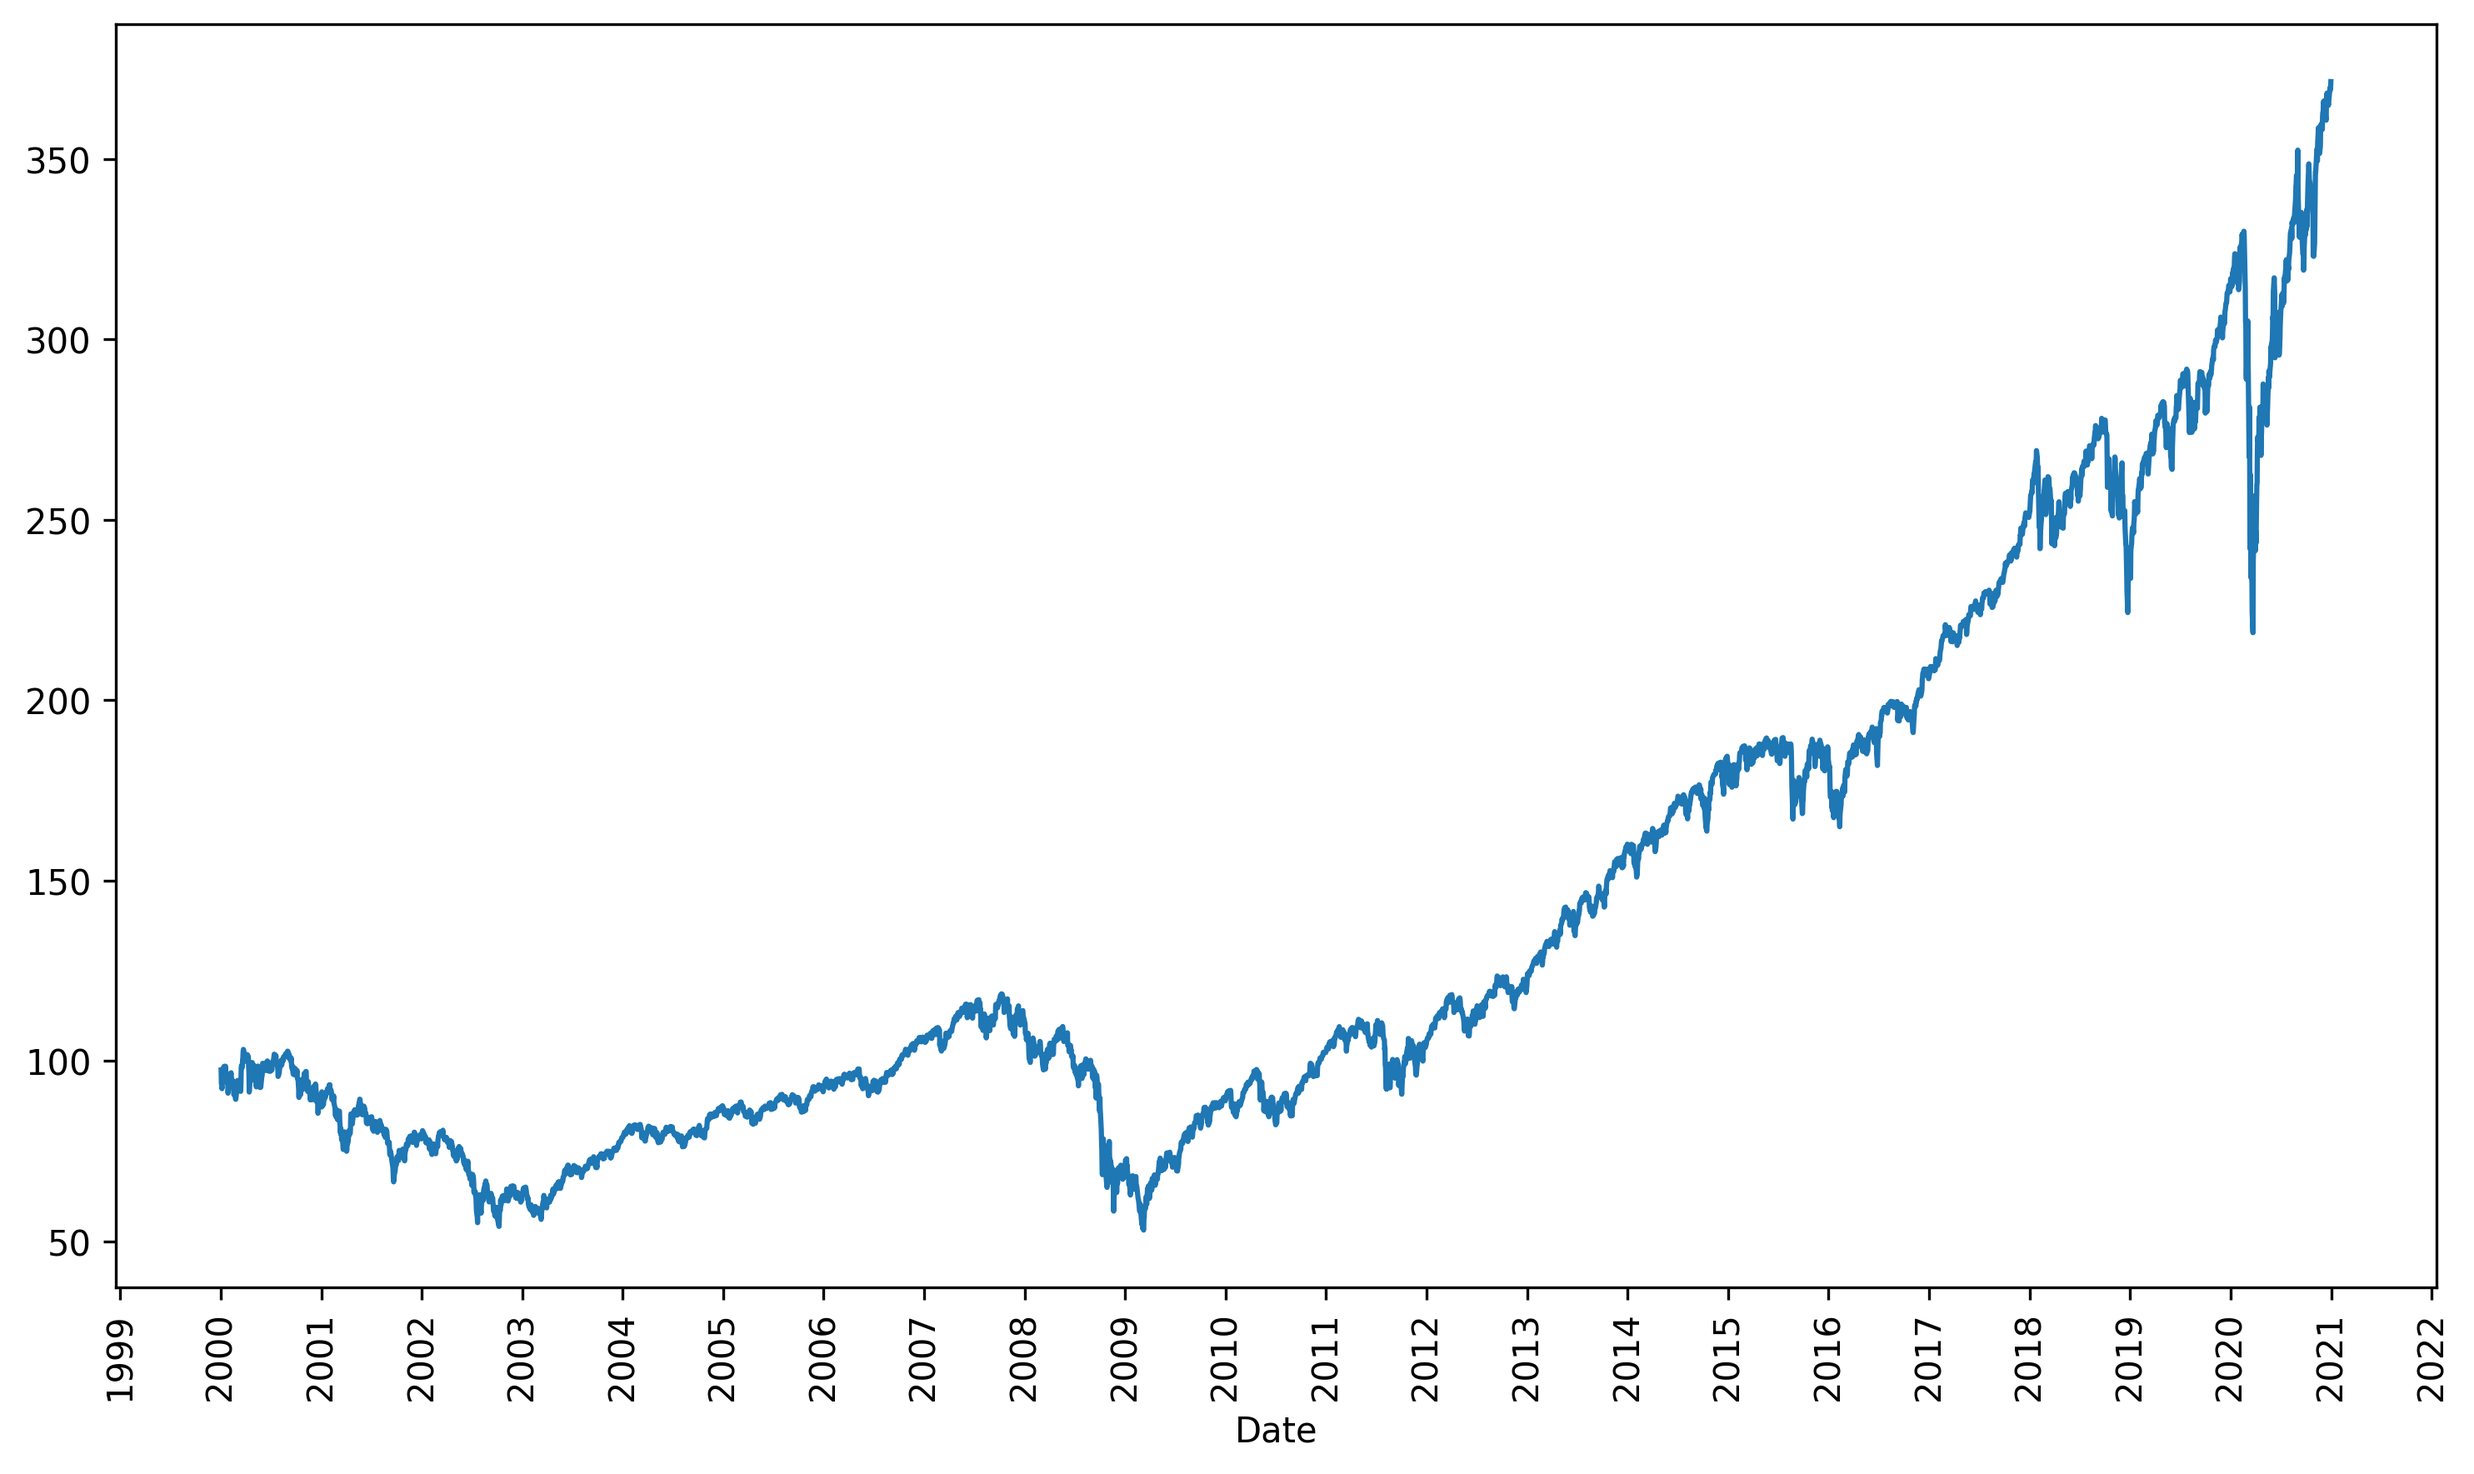
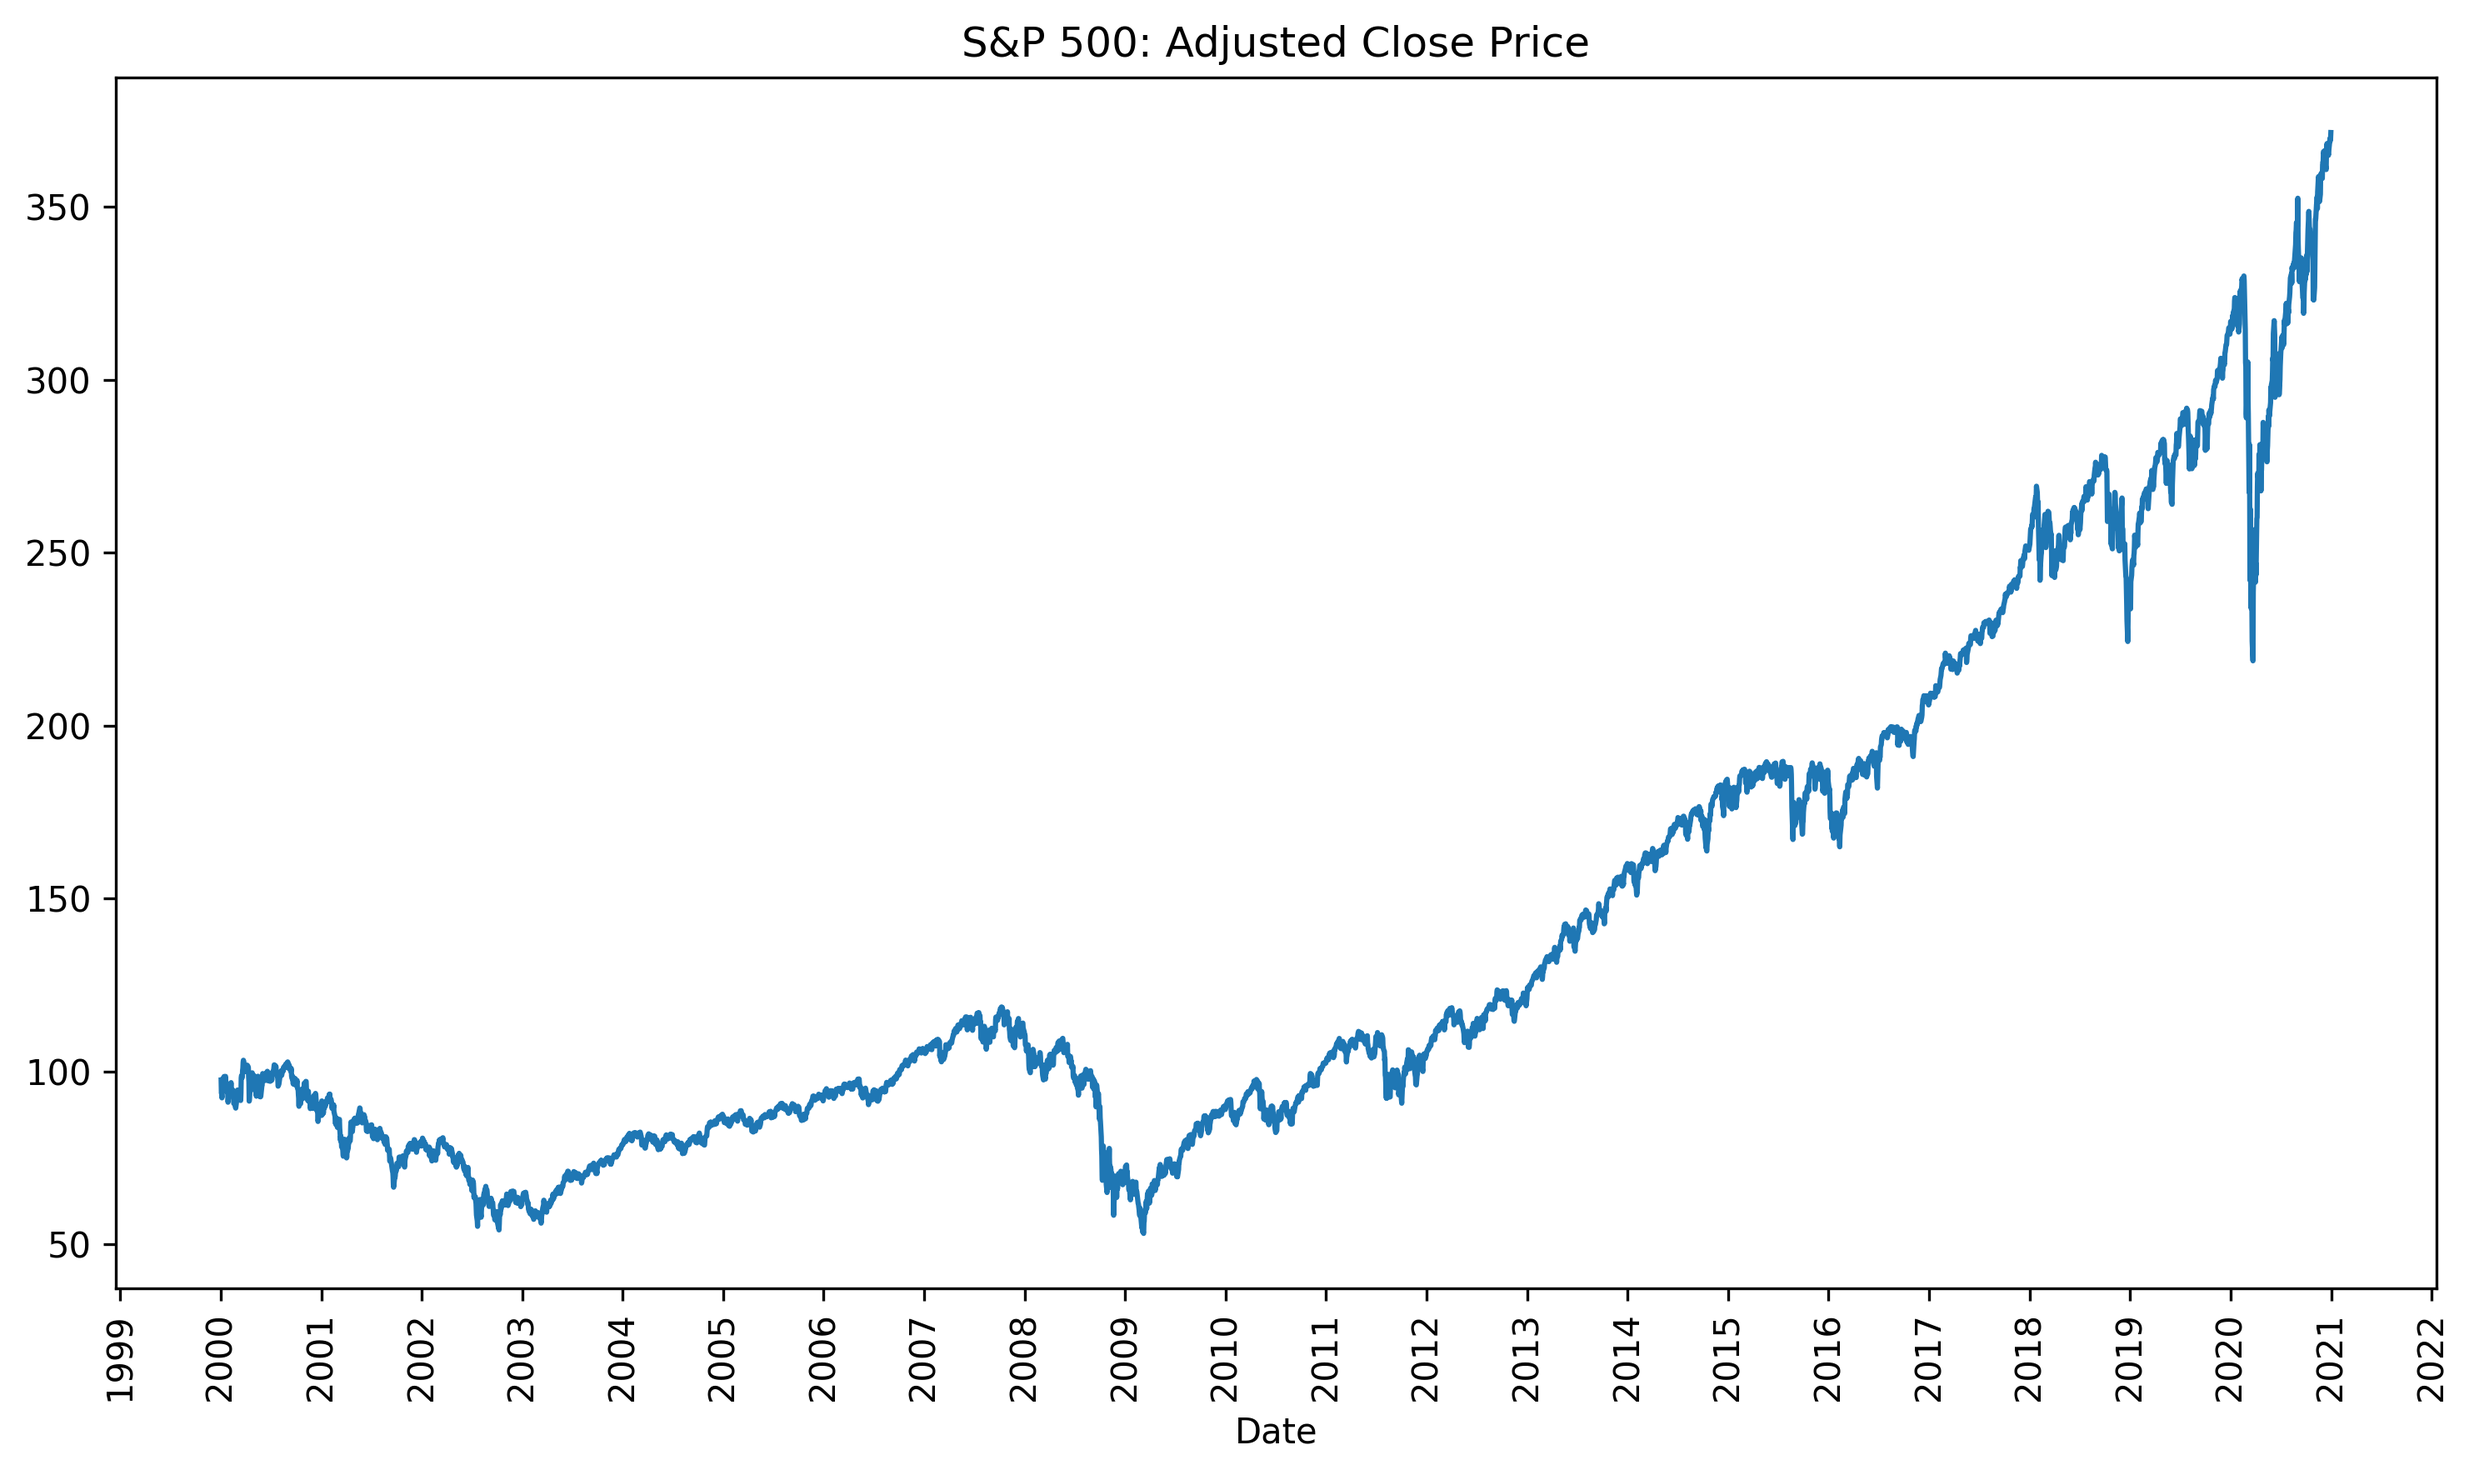
Added titles and tight fit to all plots and dynamically created y limits for the 2020 SPY crash plot

diff --git a/section-05-pandas-finance/q-00-spy.py b/section-05-pandas-finance/q-00-spy.py
@@ -17,6 +17,7 @@ df.info()
 
 # **Task: Plot the Adjusted Closing price of the SP500, with the price on the y axis and the year on the x axis. Use Locator() and Formatter() techniques to configure the plot x axis so that you can see a tick for every year in the dataset (only showing the year number, not the full YYYY-MM-DD that is the default). Choose a reasonable figure size, set the dpi to 300 and save this plot in your working directory as sp500.png**
 plt.figure(figsize=(10,6),dpi=300)
+plt.title('S&P 500: Adjusted Close Price')
 ax = df['Adj Close'].plot()
 ax.xaxis.set_major_locator(dates.YearLocator())
 ax.tick_params(axis='x',which='major',rotation=90)
@@ -27,19 +28,31 @@ plt.show()
 
 # **Task: Create a histogram of the daily volume of shares of SPY traded. Choose a reasonable bin size.**
 # df['Volume'].plot(kind='hist',bins=50)
+plt.title('SPY: Histogram of Daily Volume')
 df['Volume'].hist(bins=50)
 plt.show()
 
 # **Task: Let's explore the crash and recovery of 2020 due to the COVID pandemic. Create a line plot of the Adj. Close price from 1-1-2020 to 1-1-2021. The xaxis ticks should be formatted by YYYY-MM**
 plt.figure(figsize=(8,6),dpi=200)
-df['Adj Close'].plot(xlim=['2020-01-01','2021-01-01'])
+plt.title('S&P 500: 2020 Crash')
+time_init = '2020-01-01'
+time_end = '2021-01-01'
+bound = 10
+y_min = df.loc[time_init:time_end, 'Adj Close'].min()
+y_max = df.loc[time_init:time_end, 'Adj Close'].max()
+df['Adj Close'].plot(xlim=[time_init,time_end], ylim=[y_min-bound,y_max+bound])
+print('MIN: {}'.format(y_min))
+print('MAX: {}'.format(y_max))
+plt.tight_layout()
 plt.show()
 
 # **Task: Create a plot whichs shows the adjusted closing price of SPY for the entire length of the time series along with an added trend line of the corresponding 200 days rolling mean of the adj. close price. Make sure to add a legend that identifies each line.** 
 plt.figure(figsize=(10,4),dpi=200)
+plt.title('SPY and 200 Day Rolling Mean')
 ax_adj = df['Adj Close'].plot(label='Adj Close')
 df['Adj Close'].rolling(window=200).mean().plot(lw=0.8,label='200 MA of Adj Close')
 ax_adj.legend()
+plt.tight_layout()
 plt.show()
 
 '''
